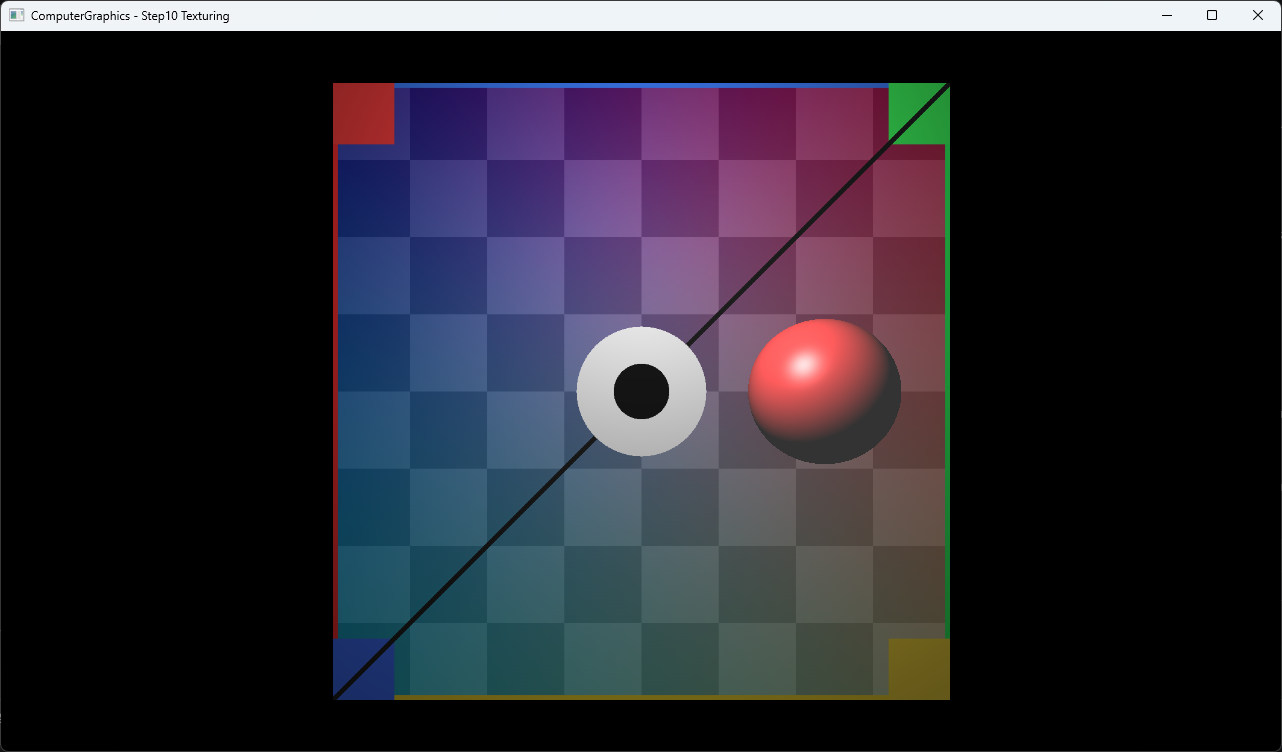
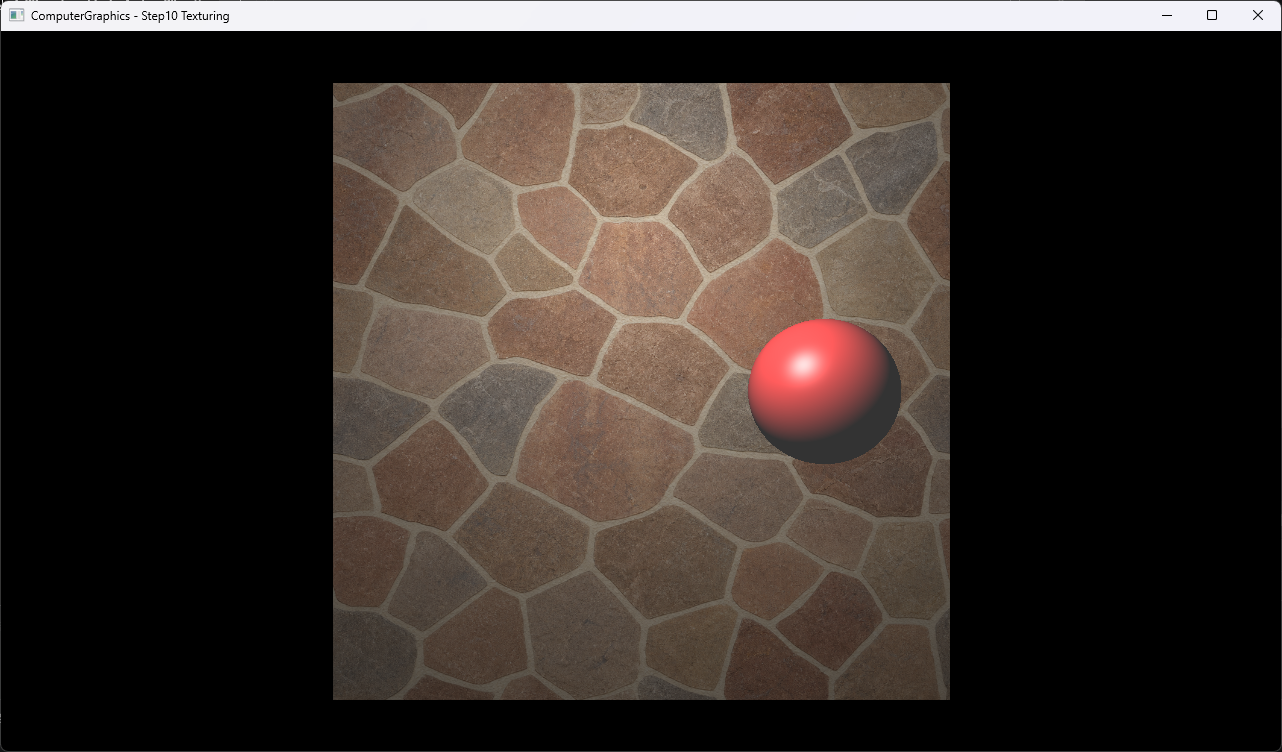
demo: Chapter03 Step10 석재 Demo 갱신

diff --git a/Docs/03_Demos/Part1_Chapter03/10_Texturing.md b/Docs/03_Demos/Part1_Chapter03/10_Texturing.md
@@ -2,7 +2,7 @@
 
 ## 목적
 
-Triangle hit의 barycentric weight로 UV를 보간하고 CPU에서 image texture를 bilinear sampling하는 흐름을 확인한다. 방향과 경계가 명확한 자작 UV 진단 texture를 사용해 두 triangle으로 구성한 Square에서 보간이 연속되는지도 함께 확인한다.
+Triangle hit의 barycentric weight로 UV를 보간하고 CPU에서 image texture를 bilinear sampling하는 흐름을 확인한다. 사용자 직접 생성 석재 texture를 사용해 두 triangle으로 구성한 Square에서 판석과 줄눈이 연속적으로 이어지는지도 함께 확인한다.
 
 ## 책임 범위
 
@@ -18,7 +18,7 @@ Triangle hit의 barycentric weight로 UV를 보간하고 CPU에서 image texture
 
 ## 입력과 출력
 
-- 입력: perspective primary ray, 두 triangle으로 구성한 Square, 자작 UV 진단 PNG, 별도 sphere와 point light
+- 입력: perspective primary ray, 두 triangle으로 구성한 Square, 사용자 직접 생성 석재 PNG, 별도 sphere와 point light
 - 출력: bilinear sampling한 textured Square와 Phong shading sphere
 - 표시 경로: CPU RGBA32F buffer를 DirectX11 dynamic texture로 옮기고 full-screen quad로 표시
 
@@ -68,7 +68,7 @@ CreateTexturedSquare()
 
 네 vertex는 image의 좌상단부터 시계 방향으로 UV를 대응한다. 두 child triangle은 공용 대각선의 위치와 UV를 공유하므로 동일한 surface 좌표를 계산한다.
 
-- [자작 texture와 Square UV 구성](../../../Part1_Chapter03/03_Raytracing_Step10_Texturing/Raytracer.h#L34-L50)
+- [석재 texture와 Square UV 구성](../../../Part1_Chapter03/03_Raytracing_Step10_Texturing/Raytracer.h#L34-L50)
 - [두 triangle의 공유 UV 구성](../../../Part1_Chapter03/03_Raytracing_Step10_Texturing/Square.h#L10-L16)
 
 ### Barycentric UV 보간
@@ -146,20 +146,21 @@ Ray tracing, UV interpolation과 image sampling은 CPU에서 수행한다. Direc
 
 ## 시각 결과
 
-- Red, green, blue와 yellow corner marker로 UV의 상하좌우 방향을 구분할 수 있다.
-- Checker와 가로·세로 gradient가 Square 전체에서 연속적으로 변한다.
-- 두 child triangle의 공유 대각선에서 color나 pattern의 불연속 seam이 보이지 않는다.
-- 중앙 target과 반대 대각선 표식이 bilinear filtering 후에도 연속적으로 유지된다.
+- 불규칙한 붉은색·갈색·베이지색 판석과 밝은 줄눈이 Square 표면에 mapping된다.
+- 판석의 미세한 표면 변화와 줄눈 경계가 bilinear sampling 후에도 자연스럽게 유지된다.
+- 두 child triangle의 공유 대각선에서 판석이나 줄눈의 불연속 seam이 보이지 않는다.
+- Square 바깥 UV 경계에서 눈에 띄는 wrap blend strip이 보이지 않는다.
 - 오른쪽 sphere는 texture가 없는 기존 closest-hit와 Phong material 경로를 유지한다.
 
 ## 입력 asset
 
-- 파일: `part1_chapter03_uv_diagnostic.png`
-- 출처 상태: 저장소 도구로 직접 생성
-- 생성 도구: `Docs/98_Tools/scripts/new-uv-diagnostic-texture.ps1`
+- 파일: `part1_chapter03_stone_mosaic.png`
+- 출처 상태: 사용자 직접 생성
+- 생성 도구: OpenAI built-in image generation
 - 규격: 1024×1024, RGB PNG
[1 lines of base64/hex data omitted]
-- 외부 자료: 복제하거나 입력으로 사용하지 않음
[2 lines of base64/hex data omitted]
+- 외부 자료: 실제 image 생성 입력으로 사용하거나 pixel을 복제하지 않음
 
 ## 구현 범위와 한계
 
@@ -177,13 +178,13 @@ Ray tracing, UV interpolation과 image sampling은 CPU에서 수행한다. Direc
 - Project 폴더 working directory에서 PNG와 shader load 확인
 - `ComputerGraphics - Step10 Texturing` application title 확인
 - Release x64 전체 application window capture 확인
-- UV 방향, bilinear filtering과 Square 공유 대각선의 seam 부재 확인
+- 자연석 mapping, bilinear filtering과 Square 공유 대각선의 seam 부재 확인
 - 입력과 capture PNG에 text, EXIF, XMP metadata와 개인 식별자 없음
 - 자세한 상태는 [Verification Index](../../02_Verification/Part1_Chapter03/verification-index.md)에서 관리한다.
 
 ## 관련 코드
 
-- [자작 texture와 Square UV](../../../Part1_Chapter03/03_Raytracing_Step10_Texturing/Raytracer.h#L34-L50)
+- [석재 texture와 Square UV](../../../Part1_Chapter03/03_Raytracing_Step10_Texturing/Raytracer.h#L34-L50)
 - [Square child triangle 구성](../../../Part1_Chapter03/03_Raytracing_Step10_Texturing/Square.h#L10-L34)
 - [Barycentric UV interpolation](../../../Part1_Chapter03/03_Raytracing_Step10_Texturing/Triangle.h#L26-L40)
 - [Image load](../../../Part1_Chapter03/03_Raytracing_Step10_Texturing/Texture.cpp#L13-L27)

diff --git a/Docs/03_Demos/Part1_Chapter03/demo-index.md b/Docs/03_Demos/Part1_Chapter03/demo-index.md
@@ -20,7 +20,7 @@
 | Step7 Triangle | [상세 Demo](07_Triangle.md) | [Example README](../../../Part1_Chapter03/03_Raytracing_Step7_Triangle/README.md) | [Ray](../../01_Topics/RayTracing/Ray.md), [Intersection](../../01_Topics/RayTracing/Intersection.md), [Phong Shading](../../01_Topics/LightingAndShading/PhongShading.md) | [현재 확인](../../02_Verification/Part1_Chapter03/verification-index.md) | [기본](../../_assets/captures/part1_chapter03_07_triangle.png) | 미게시 | 확보 | 2026-07-30 Debug/Release x64와 triangle·sphere scene 전체 창 screenshot 확인 |
 | Step8 Shadow | [상세 Demo](08_Shadow.md) | [Example README](../../../Part1_Chapter03/03_Raytracing_Step8_Shadow/README.md) | [Shadow Ray](../../01_Topics/Shadows/ShadowRay.md), [Intersection](../../01_Topics/RayTracing/Intersection.md) | [현재 확인](../../02_Verification/Part1_Chapter03/verification-index.md) | [기본](../../_assets/captures/part1_chapter03_08_shadow.png) | 미게시 | 확보 | 2026-07-31 Debug/Release x64와 Square composite 바닥·cast shadow 전체 창 screenshot 확인 |
 | Step9 Barycentric Coordinates | [상세 Demo](09_BarycentricCoordinates.md) | [Example README](../../../Part1_Chapter03/03_Raytracing_Step9_BarycentricCordinates/README.md) | [Barycentric Coordinates](../../01_Topics/RayTracing/BarycentricCoordinates.md), [Intersection](../../01_Topics/RayTracing/Intersection.md) | [현재 확인](../../02_Verification/Part1_Chapter03/verification-index.md) | [기본](../../_assets/captures/part1_chapter03_09_barycentric_coordinates.png) | 미게시 | 확보 | 2026-07-31 Debug/Release x64와 RGB vertex color 보간 전체 창 screenshot 확인 |
-| Step10 Texturing | [상세 Demo](10_Texturing.md) | [Example README](../../../Part1_Chapter03/03_Raytracing_Step10_Texturing/README.md) | [Texture Sampling](../../01_Topics/TexturingAndMapping/TextureSampling.md), [Barycentric Coordinates](../../01_Topics/RayTracing/BarycentricCoordinates.md) | [현재 확인](../../02_Verification/Part1_Chapter03/verification-index.md) | [기본](../../_assets/captures/part1_chapter03_10_texturing.png) | 미게시 | 확보 | 2026-07-31 Debug/Release x64와 자작 UV 진단 texture의 방향·bilinear sampling·Square seam 부재 전체 창 screenshot 확인 |
+| Step10 Texturing | [상세 Demo](10_Texturing.md) | [Example README](../../../Part1_Chapter03/03_Raytracing_Step10_Texturing/README.md) | [Texture Sampling](../../01_Topics/TexturingAndMapping/TextureSampling.md), [Barycentric Coordinates](../../01_Topics/RayTracing/BarycentricCoordinates.md) | [현재 확인](../../02_Verification/Part1_Chapter03/verification-index.md) | [기본](../../_assets/captures/part1_chapter03_10_texturing.png) | 미게시 | 확보 | 2026-07-31 Debug/Release x64와 사용자 직접 생성 석재 texture의 자연석 mapping·bilinear sampling·Square seam 부재 전체 창 screenshot 확인 |
 | Step11 Supersampling | 없음 | `03_Raytracing_Step11_Supersampling` | 미확인 | [과거 확인](../../02_Verification/Part1_Chapter03/verification-index.md) | 없음 | 미게시 | 후보 | 문서 작성과 asset 검토 대기 |
 | Step12 Reflection | 없음 | `03_Raytracing_Step12_Reflection` | 미확인 | [과거 확인](../../02_Verification/Part1_Chapter03/verification-index.md) | 없음 | 미게시 | 후보 | 문서 작성과 asset 검토 대기 |
 | Step13 Transparency | 없음 | `03_Raytracing_Step13_Transparency` | 미확인 | [과거 확인](../../02_Verification/Part1_Chapter03/verification-index.md) | 없음 | 미게시 | 후보 | 문서 작성과 asset 검토 대기 |

diff --git a/Docs/05_Publication/candidate-list.md b/Docs/05_Publication/candidate-list.md
@@ -19,7 +19,7 @@
 | `Step7 Triangle` Demo bundle | `Part1_Chapter03/03_Raytracing_Step7_Triangle/README.md`, `Docs/03_Demos/Part1_Chapter03/07_Triangle.md`, `Docs/_assets/captures/part1_chapter03_07_triangle.png` | 외부 input asset 없이 triangle plane·내부 판정과 sphere 공통 closest-hit 결과를 설명 가능 | 검토 필요 | Debug/Release x64 build/run과 공개 application title의 기본 전체 창 screenshot 확인. PNG text/EXIF/XMP 정보와 개인 식별자 없음 | 공개 문장과 code permalink는 GitHub 후보 작성 시 검토 | Demo 등급과 GitHub 게시 여부는 Step4~14 완료 후 판단 |
 | `Step8 Shadow` Demo bundle | `Part1_Chapter03/03_Raytracing_Step8_Shadow/README.md`, `Docs/03_Demos/Part1_Chapter03/08_Shadow.md`, `Docs/_assets/captures/part1_chapter03_08_shadow.png` | 외부 input asset 없이 Square composite primitive, parent material과 sphere cast shadow 결과를 설명 가능 | 검토 필요 | Debug/Release x64 build/run과 공개 application title의 기본 전체 창 screenshot 확인. PNG text/EXIF/XMP 정보와 개인 식별자 없음 | 공개 문장과 code permalink는 GitHub 후보 작성 시 검토 | Demo 등급과 GitHub 게시 여부는 Step4~14 완료 후 판단 |
 | `Step9 Barycentric Coordinates` Demo bundle | `Part1_Chapter03/03_Raytracing_Step9_BarycentricCordinates/README.md`, `Docs/03_Demos/Part1_Chapter03/09_BarycentricCoordinates.md`, `Docs/_assets/captures/part1_chapter03_09_barycentric_coordinates.png` | 외부 input asset 없이 triangle barycentric weight와 RGB vertex color 보간 결과를 설명 가능 | 검토 필요 | Debug/Release x64 build/run과 공개 application title의 기본 전체 창 screenshot 확인. PNG text/EXIF/XMP 정보와 개인 식별자 없음 | 공개 문장과 code permalink는 GitHub 후보 작성 시 검토 | Demo 등급과 GitHub 게시 여부는 Step4~14 완료 후 판단 |
-| `Step10 Texturing` Demo bundle | `Part1_Chapter03/03_Raytracing_Step10_Texturing/README.md`, `Docs/03_Demos/Part1_Chapter03/10_Texturing.md`, `Docs/_assets/captures/part1_chapter03_10_texturing.png` | Barycentric UV, CPU bilinear sampling과 Square seam 부재를 자작 진단 texture로 설명 가능 | 검토 필요 | 저장소 도구로 직접 생성한 1024×1024 RGB PNG 사용. 외부 자료 미사용, Debug/Release x64 build/run과 전체 창 screenshot 확인. 입력·capture PNG text/EXIF/XMP 정보와 개인 식별자 없음 | 공개 문장과 code permalink는 GitHub 후보 작성 시 검토 | Demo 등급과 GitHub 게시 여부는 Step4~14 완료 후 판단 |
+| `Step10 Texturing` Demo bundle | `Part1_Chapter03/03_Raytracing_Step10_Texturing/README.md`, `Docs/03_Demos/Part1_Chapter03/10_Texturing.md`, `Docs/_assets/captures/part1_chapter03_10_texturing.png` | Barycentric UV, CPU bilinear sampling과 Square seam 부재를 사용자 직접 생성 석재 texture로 설명 가능 | 검토 필요 | 외부 image를 실제 생성 입력으로 사용하지 않은 1024×1024 RGB PNG 사용. Debug/Release x64 build/run과 전체 창 screenshot 확인. 입력·capture PNG text/EXIF/XMP 정보와 개인 식별자 없음 | 공개 문장과 code permalink는 GitHub 후보 작성 시 검토 | Demo 등급과 GitHub 게시 여부는 Step4~14 완료 후 판단 |
 
 ## 갱신 기준
 

diff --git a/Docs/02_Verification/Part1_Chapter03/verification-index.md b/Docs/02_Verification/Part1_Chapter03/verification-index.md
@@ -16,7 +16,7 @@
 | `03_Raytracing_Step7_Triangle` | `Part1_Chapter03/03_Raytracing_Step7_Triangle/03_Raytracing_Step7_Triangle.sln` | 성공 | 성공 | 성공 | 성공 | 현재 확인 | 완료 | 확보 | 2026-07-30 project 폴더 CWD에서 shader load, 공개 application title, triangle·sphere scene과 전체 창 screenshot 확인 |
 | `03_Raytracing_Step8_Shadow` | `Part1_Chapter03/03_Raytracing_Step8_Shadow/03_Raytracing_Step8_Shadow.sln` | 성공 | 성공 | 성공 | 성공 | 현재 확인 | 완료 | 확보 | 2026-07-31 project 폴더 CWD에서 shader load, 공개 application title, Square composite 바닥·cast shadow 전체 창 screenshot 확인 |
 | `03_Raytracing_Step9_BarycentricCordinates` | `Part1_Chapter03/03_Raytracing_Step9_BarycentricCordinates/03_Raytracing_Step9_BarycentricCordinates.sln` | 성공 | 성공 | 성공 | 성공 | 현재 확인 | 완료 | 확보 | 2026-07-31 project 폴더 CWD에서 shader load, 공개 application title, RGB vertex color 보간과 전체 창 screenshot 확인 |
-| `03_Raytracing_Step10_Texturing` | `Part1_Chapter03/03_Raytracing_Step10_Texturing/03_Raytracing_Step10_Texturing.sln` | 성공 | 성공 | 성공 | 성공 | 현재 확인 | 완료 | 확보 | 2026-07-31 project 폴더 CWD에서 shader·자작 PNG load, 공개 application title, UV 방향·bilinear sampling·Square seam 부재와 전체 창 screenshot 확인 |
+| `03_Raytracing_Step10_Texturing` | `Part1_Chapter03/03_Raytracing_Step10_Texturing/03_Raytracing_Step10_Texturing.sln` | 성공 | 성공 | 성공 | 성공 | 현재 확인 | 완료 | 확보 | 2026-07-31 project 폴더 CWD에서 shader·사용자 직접 생성 석재 PNG load, 공개 application title, 자연석 mapping·bilinear sampling·Square seam 부재와 전체 창 screenshot 확인 |
 | `03_Raytracing_Step11_Supersampling` | `Part1_Chapter03/03_Raytracing_Step11_Supersampling/03_Raytracing_Step11_Supersampling.sln` | 성공 | 성공 | 성공 | 성공 | 과거 확인 | 필요 | 미확인 | 문서화 이전 확인 |
 | `03_Raytracing_Step12_Reflection` | `Part1_Chapter03/03_Raytracing_Step12_Reflection/03_Raytracing_Step12_Reflection.sln` | 성공 | 성공 | 성공 | 성공 | 과거 확인 | 필요 | 미확인 | 문서화 이전 확인 |
 | `03_Raytracing_Step13_Transparency` | `Part1_Chapter03/03_Raytracing_Step13_Transparency/03_Raytracing_Step13_Transparency.sln` | 성공 | 성공 | 성공 | 성공 | 과거 확인 | 필요 | 미확인 | 문서화 이전 확인 |

diff --git a/Docs/05_Publication/redaction-log.md b/Docs/05_Publication/redaction-log.md
@@ -9,7 +9,7 @@
 | RD-001 | public README 후보 | 강의 기반 표현 가능성 | 공개용 문장으로 재작성 | 예정 | 후보 확정 후 수행 |
 | RD-002 | `02_Bloom` input/result | generated asset 출처와 실행 증거 연결 | 사용자 직접 생성과 외부 자료 미복제를 확인하고 metadata·개인 식별자 검수 및 실행 입력과 tracked input의 SHA-256 일치를 기록 | 완료 | Input과 tracked input SHA-256 일치. Input APP1 metadata 제거와 decoded pixel 유지, Result PNG metadata와 육안 검사 완료. 생성 날짜, prompt 원문, provenance screenshot과 작업용 원본은 선택 기록으로 분류 |
 | RD-003 | WorkLog 요약 | local/GitHub draft 흔적 | 게시 전 문체와 민감 정보 제거 | 예정 | Issue/PR 작성 전 수행 |
-| RD-004 | `Step10 Texturing` input/result | 출처 불명 texture 교체 | 출처 불명 JPEG를 제거하고 저장소 도구로 직접 생성한 UV 진단 PNG와 재촬영한 전체 창 capture를 사용 | 완료 | 입력 asset 재생성 SHA-256 일치. 입력·capture PNG의 text/EXIF/XMP 정보와 개인 식별자 없음 |
+| RD-004 | `Step10 Texturing` input/result | 출처 불명 texture 교체 | 출처 불명 JPEG를 제거하고 사용자 직접 생성 석재 PNG와 재촬영한 전체 창 capture를 사용 | 완료 | 외부 image 직접 입력·pixel 복제 없음. 실행 입력과 tracked input SHA-256 일치. 입력·capture PNG의 text/EXIF/XMP 정보와 개인 식별자 없음 |
 
 ## 유형
 

diff --git a/Part1_Chapter03/03_Raytracing_Step10_Texturing/README.md b/Part1_Chapter03/03_Raytracing_Step10_Texturing/README.md
@@ -47,14 +47,14 @@ Square의 네 vertex는 image의 좌상단부터 시계 방향으로 `(0,0)`, `(
 | Solution | 존재 | `03_Raytracing_Step10_Texturing.sln` |
 | Debug x64 build/run | 성공 | project 폴더를 working directory로 사용 |
 | Release x64 build/run | 성공 | project 폴더를 working directory로 사용 |
-| Input texture | 포함 | `part1_chapter03_uv_diagnostic.png`, 저장소 도구로 직접 생성 |
-| Capture/Result | 확보 | 전체 application window에서 UV 방향·보간·seam 확인 |
+| Input texture | 포함 | `part1_chapter03_stone_mosaic.png`, 사용자 직접 생성 |
+| Capture/Result | 확보 | 전체 application window에서 석재 mapping·보간·seam 확인 |
 
 ## Capture/Result
 
 ![Step10 Texturing result](../../Docs/_assets/captures/part1_chapter03_10_texturing.png)
 
-직접 생성한 UV 진단 texture가 원본 방향으로 Square에 표시된다. 네 모서리의 색, checker와 gradient가 두 child triangle 경계에서 끊김 없이 이어지며 별도 sphere도 정상적으로 shading된다.
+직접 생성한 불규칙 판석과 밝은 줄눈 texture가 Square에 표시된다. 판석과 줄눈이 두 child triangle의 공유 대각선에서 끊김 없이 이어지며 별도 sphere도 정상적으로 shading된다.
 
 ## Limitations
 

diff --git a/Docs/02_Verification/capture-matrix.md b/Docs/02_Verification/capture-matrix.md
@@ -11,7 +11,7 @@
 | 범위 | 최소 capture/result | 대표 capture/result | video | 비고 |
 | --- | --- | --- | --- | --- |
 | Part1_Chapter01-02 | 확보 | 확보 | 제외 | `02_Bloom` input/result image를 `Docs/_assets/captures/part1_chapter01-02_02_bloom_input.jpg`, `Docs/_assets/captures/part1_chapter01-02_02_bloom_result.png`로 승격함. `01_DX11InitAndImGui` capture/result는 제외함 |
-| Part1_Chapter03 | 확보 | 미확인 | 미확인 | Step4 DrawingSphere부터 Step10 Texturing까지 전체 창 screenshot 확보. Step10은 자작 UV 진단 texture로 방향·보간·seam을 확인함. 대표 등급은 전체 Step 완료 후 확정 |
+| Part1_Chapter03 | 확보 | 미확인 | 미확인 | Step4 DrawingSphere부터 Step10 Texturing까지 전체 창 screenshot 확보. Step10은 사용자 직접 생성 석재 texture로 자연석 mapping·보간·seam 부재를 확인함. 대표 등급은 전체 Step 완료 후 확정 |
 | Part2_Chapter04 | 미확인 | 미확인 | 미확인 | rasterization, depth buffer 후보 |
 | Part2_Chapter05-08 | 미확인 | 미확인 | 미확인 | modeling, IBL, bloom 후보 |
 | Part3_Chapter09 | 미확인 | 미확인 | 미확인 | interaction 영상 후보 |

diff --git a/Docs/_assets/captures/README.md b/Docs/_assets/captures/README.md
@@ -45,7 +45,7 @@ part2_chapter04_depth-buffer.png
 | `part1_chapter03_07_triangle.png` | screenshot | `Part1_Chapter03/03_Raytracing_Step7_Triangle` | 확보 | Debug x64 전체 application window에서 triangle 경계, flat normal shading과 sphere closest-hit 확인 |
 | `part1_chapter03_08_shadow.png` | screenshot | `Part1_Chapter03/03_Raytracing_Step8_Shadow` | 확보 | Release x64 전체 application window에서 Square 바닥의 연속 면과 cast shadow 확인 |
 | `part1_chapter03_09_barycentric_coordinates.png` | screenshot | `Part1_Chapter03/03_Raytracing_Step9_BarycentricCordinates` | 확보 | Release x64 전체 application window에서 RGB vertex color의 연속 보간 확인 |
-| `part1_chapter03_10_texturing.png` | screenshot | `Part1_Chapter03/03_Raytracing_Step10_Texturing` | 확보 | Release x64 전체 application window에서 자작 UV 진단 texture의 방향·보간·seam 확인 |
+| `part1_chapter03_10_texturing.png` | screenshot | `Part1_Chapter03/03_Raytracing_Step10_Texturing` | 확보 | Release x64 전체 application window에서 사용자 직접 생성 석재 texture의 mapping·보간·seam 부재 확인 |
 
 ## 승격 체크
 

diff --git a/Docs/03_Demos/capture-plan.md b/Docs/03_Demos/capture-plan.md
@@ -121,7 +121,7 @@ portfolio_raytracer_reflection.png
 ## Part1 Chapter03 순차 계획
 
 - Step4 DrawingSphere와 Step5 PhongShading의 기본·파라미터 조정 screenshot, Step6 PerspectiveView부터 Step10 Texturing까지의 기본 screenshot을 동일한 전체 application window 규격으로 확보했다.
-- Step10 Texturing은 저장소 도구로 만든 UV 진단 texture를 적용해 방향·bilinear sampling·Square seam 부재를 확인했다.
+- Step10 Texturing은 사용자 직접 생성 석재 texture를 적용해 자연석 mapping·bilinear sampling·Square seam 부재를 확인했다.
 - Step11~14는 build/run과 문서화를 같은 순서로 완료한 뒤 capture 필요성을 판단한다.
 - 각 Step은 독립 상세 Demo를 기본으로 하며 Chapter 전체를 하나의 Demo로 합치지 않는다.
 - 최소·대표·선택 등급은 Step4~14 상세 Demo가 완료된 뒤 확정한다.

diff --git a/Docs/04_WorkLogs/work-units/WU-Part1.md b/Docs/04_WorkLogs/work-units/WU-Part1.md
@@ -23,7 +23,7 @@
 | README 계층 | 확인 | Root README는 portfolio archive 첫 화면으로, Chapter/Example README는 각 계층 정본으로 정리했다. |
 | Remote PR | Merged | PR #8을 일반 merge commit `e14f5e3`으로 병합했다. |
 | Pilot 게시 후보 동기화 | 완료 | PR #10 후처리에서 tracked GitHub 후보와 원격 객체를 동기화했다. |
-| Chapter03 순차 작업 | 진행 중 | Step4 DrawingSphere부터 Step10 Texturing까지 build/run, README·Topic과 독립 상세 Demo를 완료했다. Step10은 자작 UV 진단 texture와 전체 창 capture를 사용한다. |
+| Chapter03 순차 작업 | 진행 중 | Step4 DrawingSphere부터 Step10 Texturing까지 build/run, README·Topic과 독립 상세 Demo를 완료했다. Step10은 사용자 직접 생성 석재 texture와 전체 창 capture를 사용한다. |
 
 ## 02_Bloom 작업 요약
 

diff --git a/Part1_Chapter03/README.md b/Part1_Chapter03/README.md
@@ -18,7 +18,7 @@
 | Import status | Step4~14 반영 |
 | Public readiness | Step4~10 검토 필요, Step11~14 미판정 |
 | Build/run status | Step4~10 현재 확인, Step11~14 과거 확인 |
-| Texture/environment asset | Step10 자작 texture 적용, Step11 이후 asset은 각 Step 작업에서 별도 검토 |
+| Texture/environment asset | Step10 사용자 직접 생성 석재 texture 적용, Step11 이후 asset은 각 Step 작업에서 별도 검토 |
 | Verification | [Part1 Chapter03 Verification](../Docs/02_Verification/Part1_Chapter03/verification-index.md) |
 | Demo | [Part1 Chapter03 Demo Index](../Docs/03_Demos/Part1_Chapter03/demo-index.md) |
 | Topic | [Ray Tracing Topics](../Docs/01_Topics/RayTracing/README.md), [Lighting And Shading Topics](../Docs/01_Topics/LightingAndShading/README.md), [Shadow Topics](../Docs/01_Topics/Shadows/README.md) |
